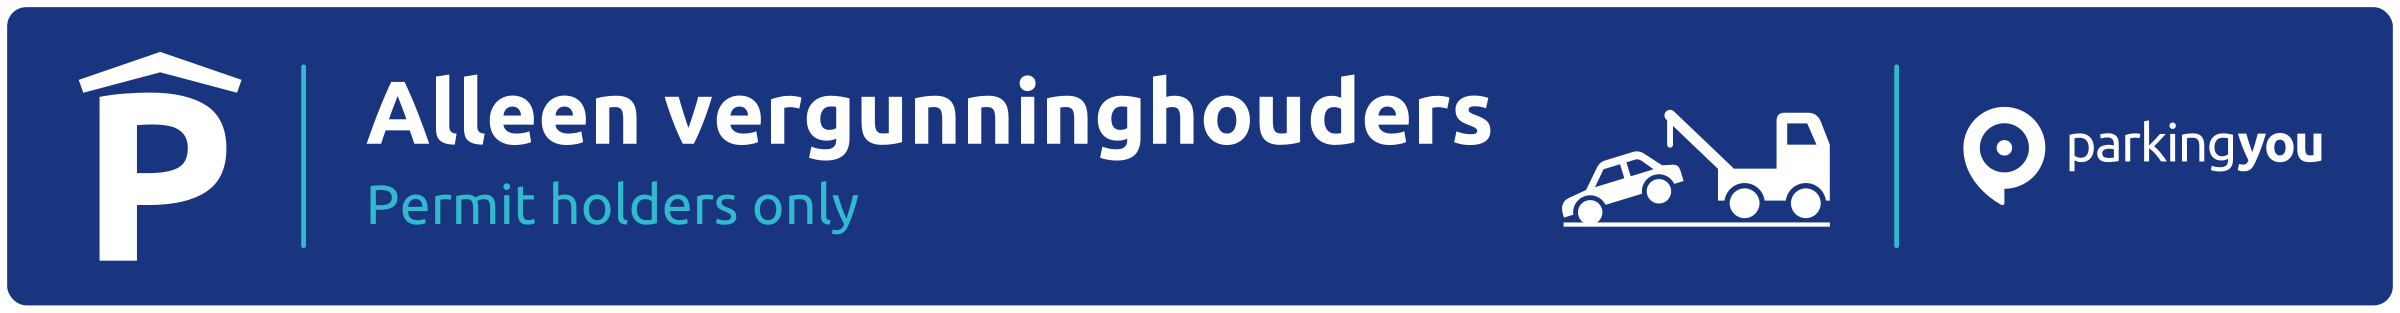
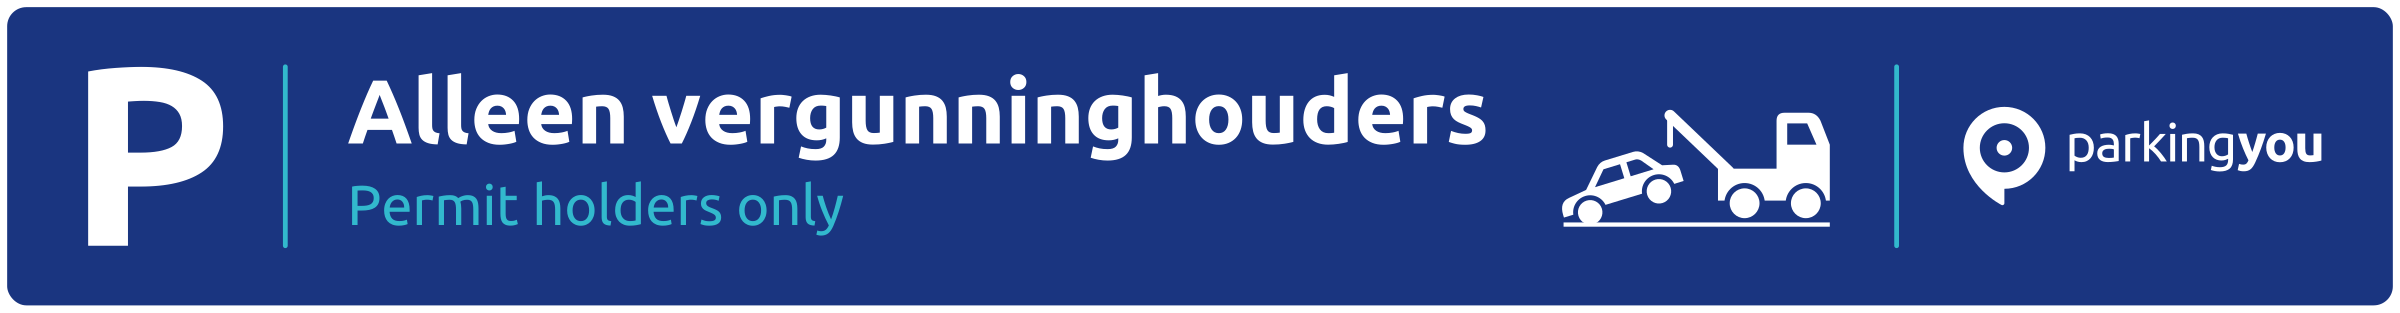
Barrier sign: plain P instead of P with roof (open air terrain, not a garage)
Claude-Session: https://claude.ai/code/session_01A5zCZPzjor5gKpYzkviwhM

Changed region(s): [[0.0312, 0.1725, 0.625, 0.8339], [0.125, 0.5751, 0.375, 0.7476]]

diff --git a/designs/py-app-sign-slagboom-vergunninghouders/build.py b/designs/py-app-sign-slagboom-vergunninghouders/build.py
@@ -1,7 +1,7 @@
 """New design: slagboombord "Alleen vergunninghouders" (replaces the generic "Private parking / Parking only for permit holders" plate).
 
 Built from library elements (no source print file exists, this is a new design):
-  py-atom-symbol-p-roof (white P with roof), py-atom-logo-horizontal-white, tokens blauw / aqua / wit, Ubuntu Bold and Regular.
+  py-atom-symbol-p-plain (white plain P, no roof: this is an open air private parking, not a garage), py-atom-logo-horizontal-white, tokens blauw / aqua / wit, Ubuntu Bold and Regular.
 The tow away pictogram is drawn here (new, white on navy).
 
 Run from the repo root:
@@ -72,9 +72,9 @@ def build():
     d.rect(-BLEED, -BLEED, W + BLEED, H + BLEED, fill=NAVY, gid="bleed-background", variable="background-colour", example=NAVY)
 
     cy = H / 2
-    # 1. P with roof, white
-    with d.group("py-atom-symbol-p-roof"):
-        p_box = d.place("py-atom-symbol-p-roof", MARGIN, cy, h=H * 0.70, anchor="cl")
+    # 1. plain P, white (no roof: the roof marks a garage, this is an open air terrain)
+    with d.group("py-atom-symbol-p-plain"):
+        p_box = d.place("py-atom-symbol-p-plain", MARGIN + 4, cy, h=H * 0.60, anchor="cl")
     # aqua divider
     div1 = p_box[2] + 26
     d.line(div1, H * 0.20, div1, H * 0.80, stroke=AQUA, sw=2.0, cap="round", gid="divider-left")
@@ -138,7 +138,7 @@ def main():
         "built_from": d.built_from + ["py-atom-picto-tow-away (new, drawn in build.py)"],
         "status": "new",
         "layout_mm": {k: round(v, 2) for k, v in info.items()},
-        "notes": ("New barrier plate in the ParkingYou house style: navy PY-Blauw field, white P with roof, aqua dividers, Dutch line in Ubuntu Bold white, "
+        "notes": ("New barrier plate in the ParkingYou house style: navy PY-Blauw field, white plain P (no roof, not a garage), aqua dividers, Dutch line in Ubuntu Bold white, "
                   "English line in Ubuntu Regular PY-Aqua, white tow away pictogram, white horizontal logo. ASSUMPTION: trim 1000 x 125 mm is estimated "
                   "from the photo (the old plate is about 8 : 1 next to the boom); measure the old plate and the mounting holes before ordering, then change "
                   "TRIM in build.py and rebuild. Mounting holes are not marked (position depends on the bracket). Material proposal: 3 mm aluminium dibond, "

diff --git a/designs/py-app-sign-slagboom-vergunninghouders/README.md b/designs/py-app-sign-slagboom-vergunninghouders/README.md
@@ -11,7 +11,7 @@ Vervangt het generieke bord "P Private parking / Parking only for permit holders
 | `spec.json` | Maten, variabelen, gebruikte bouwstenen |
 | `build.py` | Bouwt alles opnieuw: `python3 -I designs/py-app-sign-slagboom-vergunninghouders/build.py` |
 
-Opbouw: PY-Blauw vlak, witte P met dak, aqua scheidingslijnen, "Alleen vergunninghouders" in Ubuntu Bold wit,
+Opbouw: PY-Blauw vlak, witte platte P (zonder dak, het is geen garage), aqua scheidingslijnen, "Alleen vergunninghouders" in Ubuntu Bold wit,
 "Permit holders only" in Ubuntu Regular PY-Aqua, wit wegsleep-pictogram (nieuw getekend), wit liggend logo.
 
 Open punten voor bestellen:
